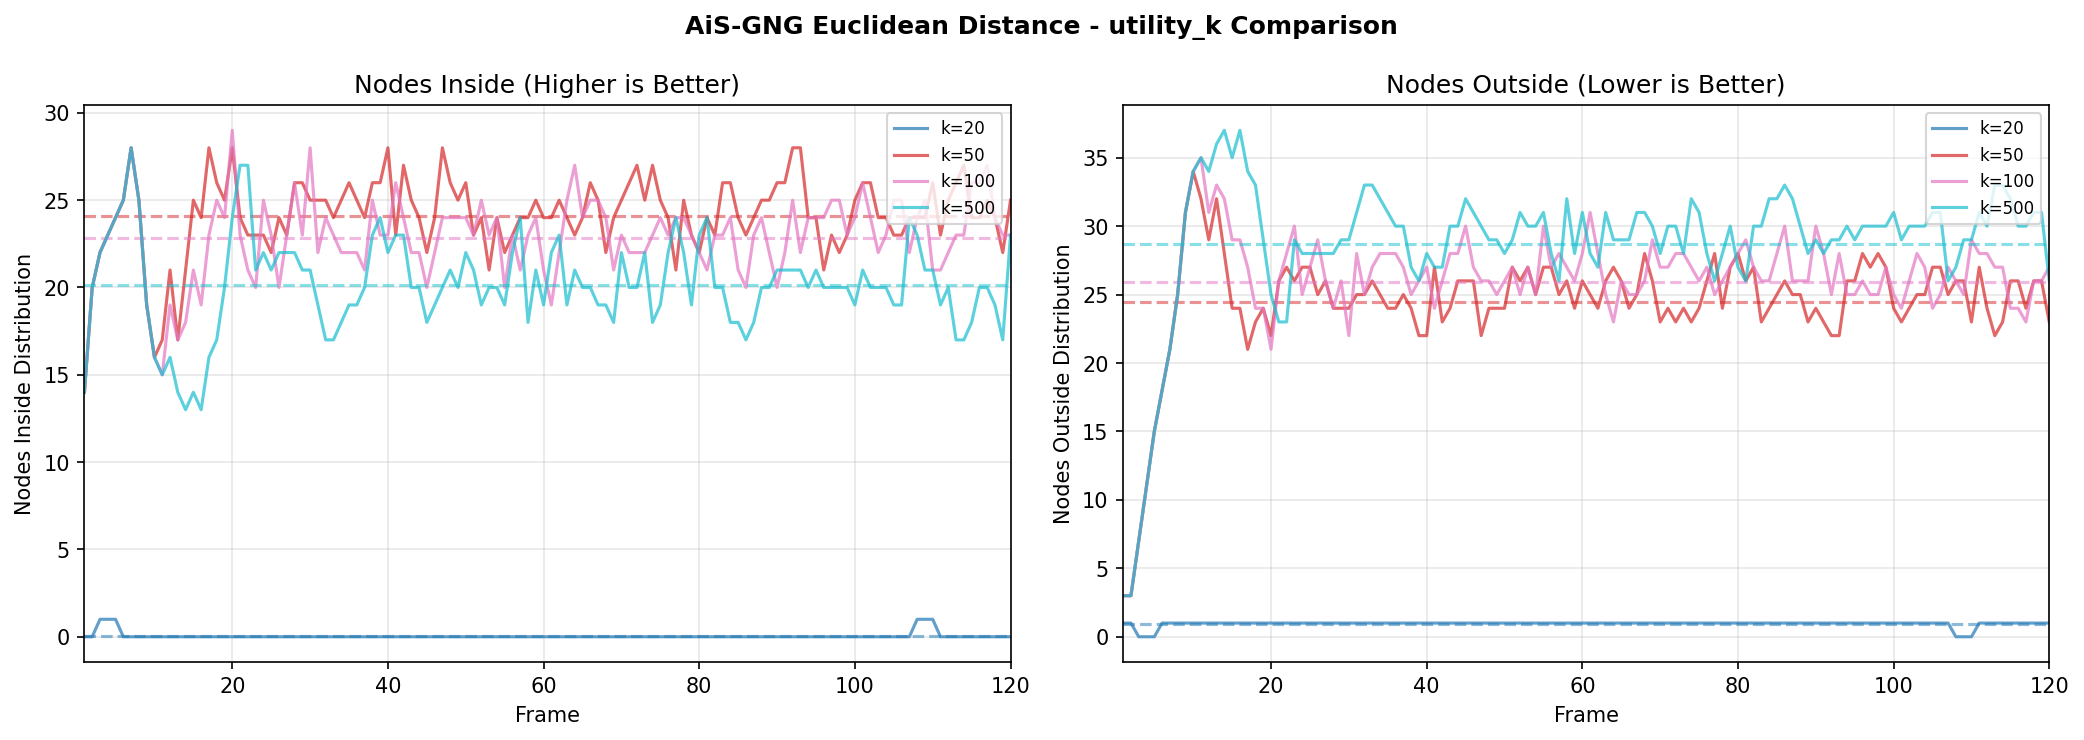
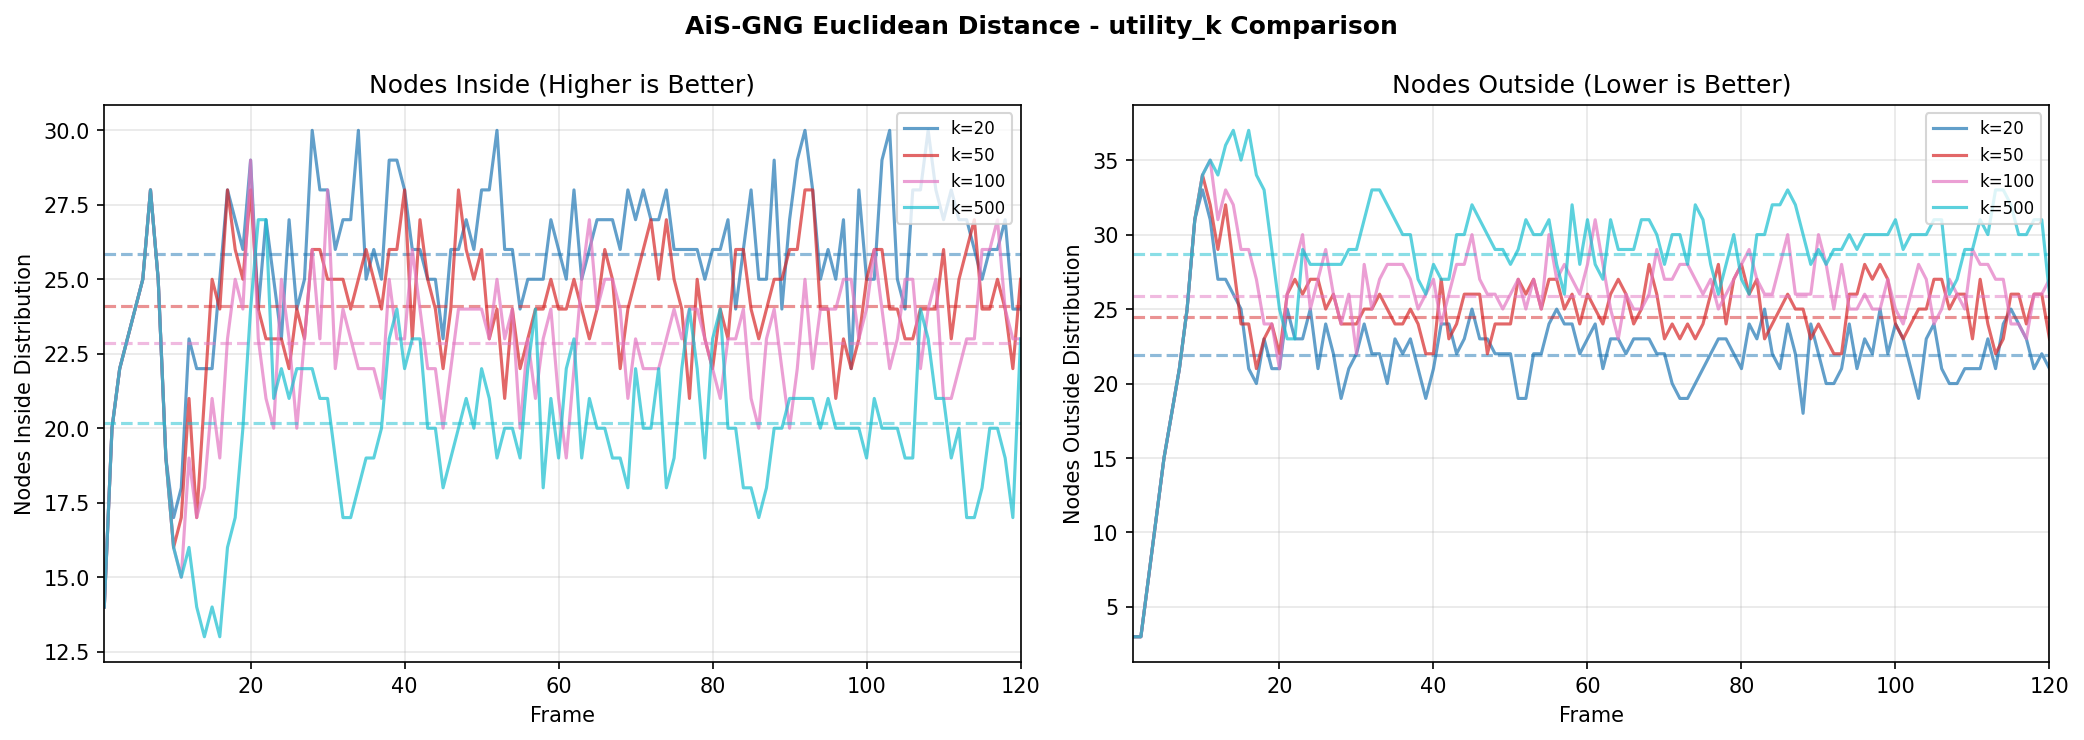
Fix GNG-U2 and AiS-GNG to prevent dropping below 2 nodes
Added check in _check_utility_criterion() for both:
- algorithms/gng_u2/python/model.py
- algorithms/ais_gng/python/model.py

This fixes the issue where utility_k=20 with Euclidean distance
caused all nodes to be removed, stopping learning.

Regenerated affected GIFs and line graphs.

https://claude.ai/code/session_017b5qWg6pcPoRsVDBckwGdS

diff --git a/algorithms/gng_u2/python/model.py b/algorithms/gng_u2/python/model.py
@@ -260,6 +260,10 @@ class GrowingNeuralGasU2:
         """
         p = self.params
 
+        # Don't remove if only 2 nodes remain
+        if self.n_nodes <= 2:
+            return
+
         # Find max error and min utility
         max_error = 0.0
         min_utility = float("inf")

diff --git a/algorithms/ais_gng/python/model.py b/algorithms/ais_gng/python/model.py
@@ -272,6 +272,10 @@ class AiSGNG:
         """
         p = self.params
 
+        # Don't remove if only 2 nodes remain
+        if self.n_nodes <= 2:
+            return
+
         # Find max error and min utility
         max_error = 0.0
         min_utility = float("inf")
